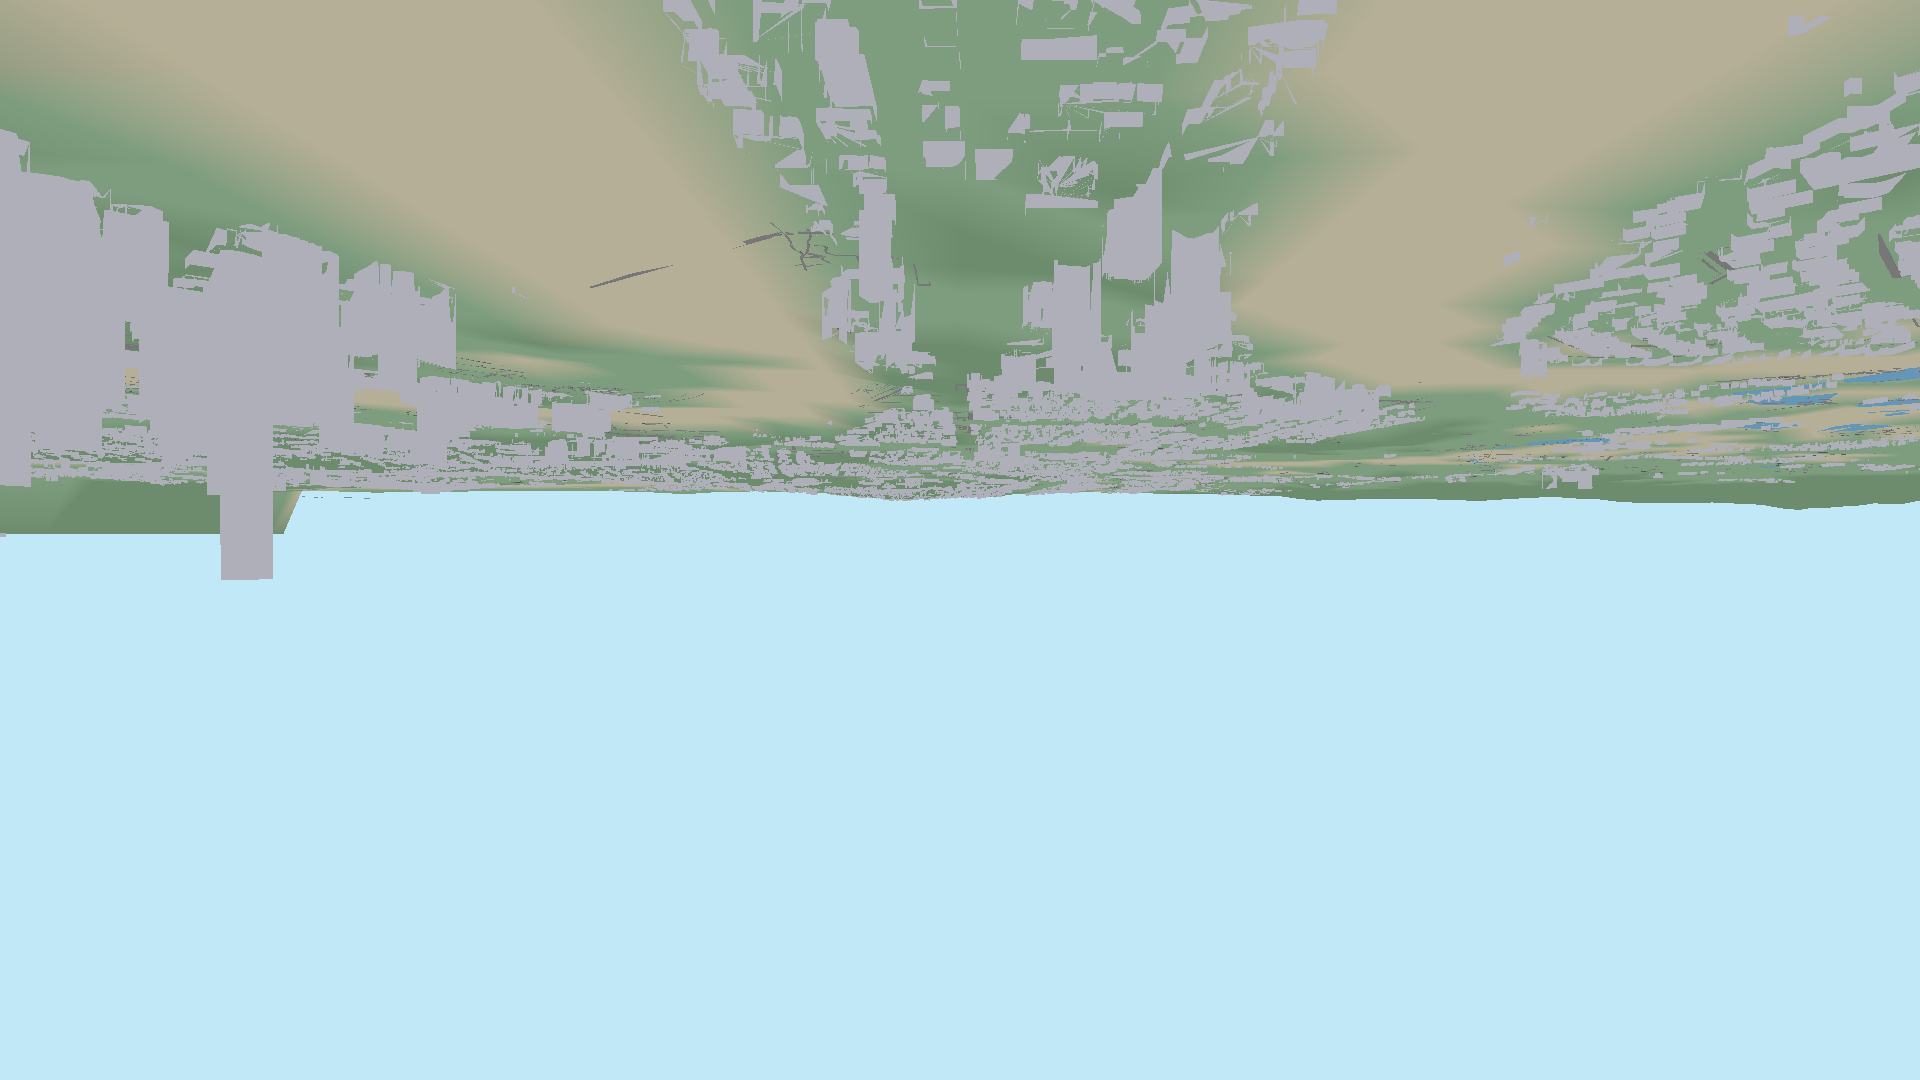
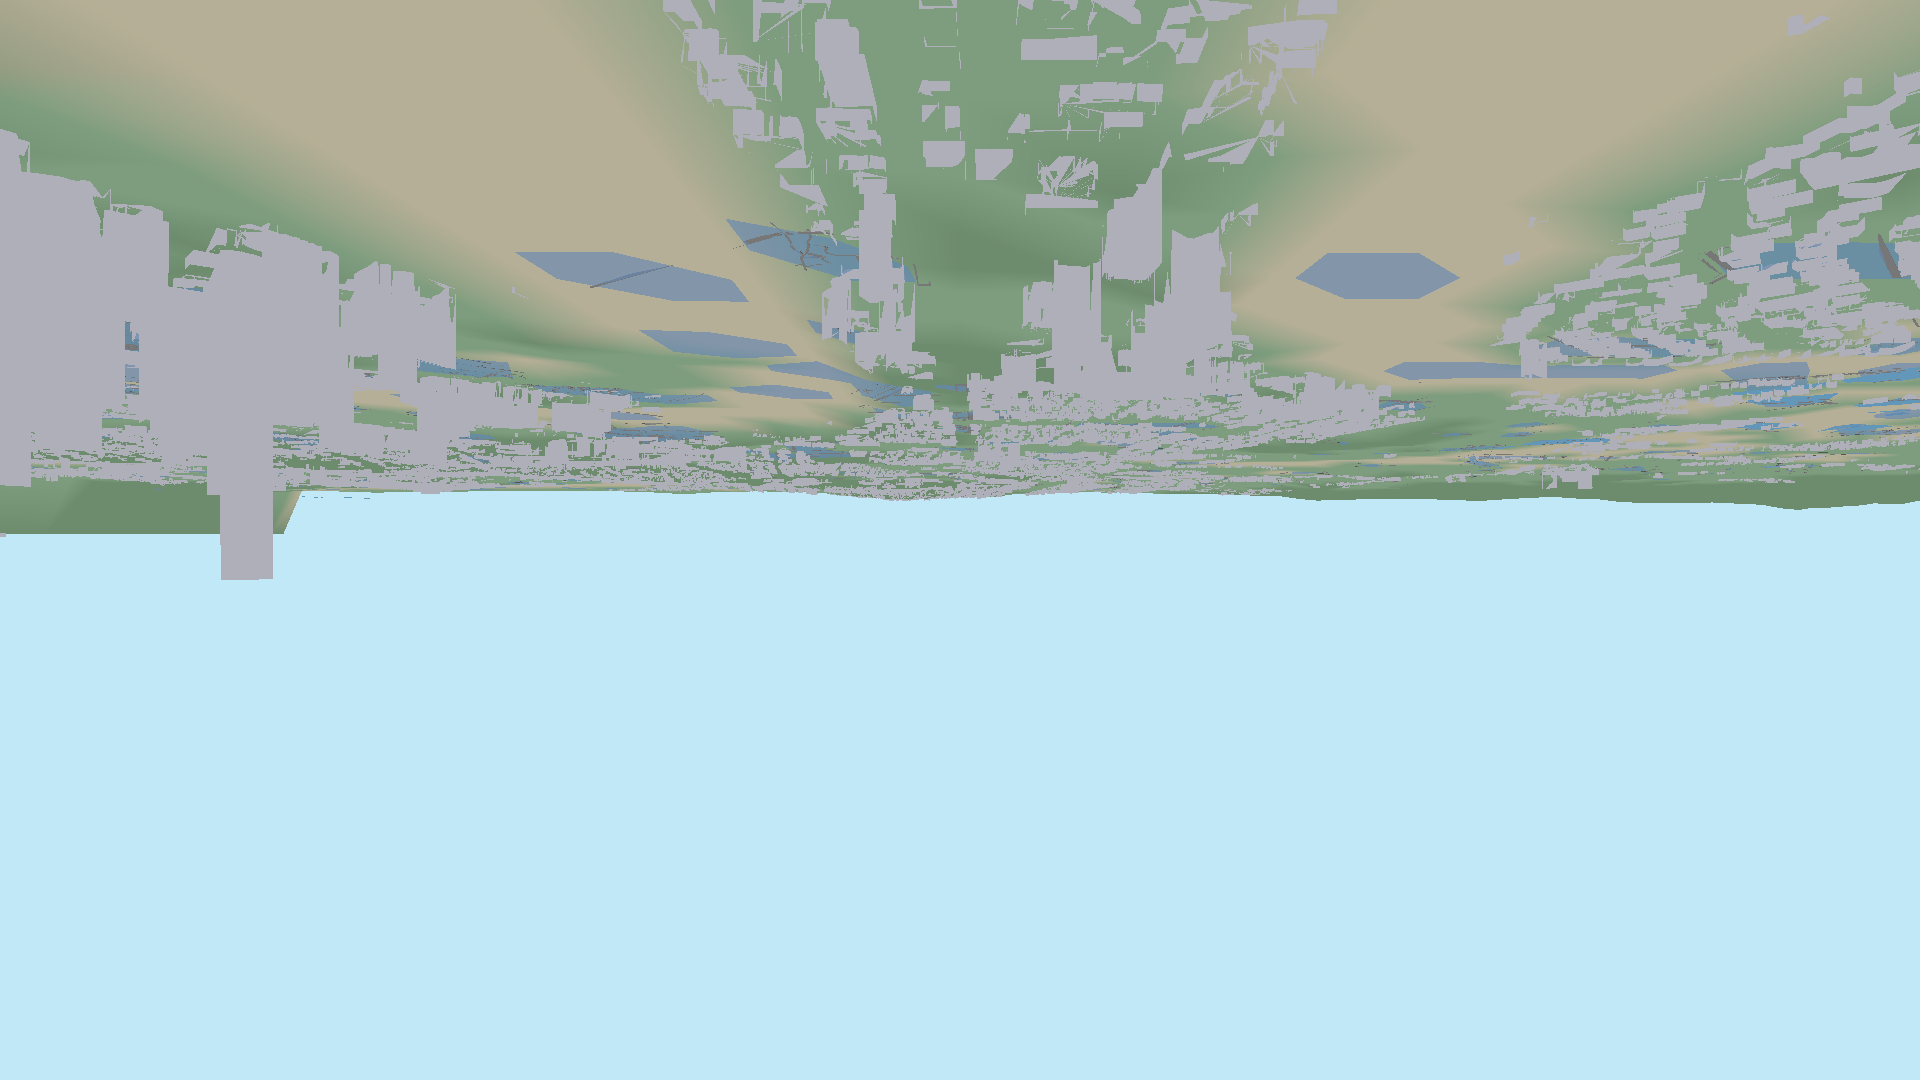
docs: terrain rendering milestone complete and documented
Created comprehensive documentation:
- TERRAIN_RENDERING_STATUS.md (system overview)
- SESSION_SUMMARY_20260215_TERRAIN.md (breakthrough details)

This session achieved the critical milestone of grounding
the metaverse on real Earth terrain. Buildings no longer
float - they sit on SRTM-based ground with water visible.

System proven viable. Ready for quality improvements.

diff --git a/src/terrain_mesh.rs b/src/terrain_mesh.rs
@@ -76,3 +76,58 @@ pub fn generate_terrain_mesh(
     eprintln!("[Terrain] {} vertices, {} triangles", vertices.len(), indices.len() / 3);
     (vertices, indices)
 }
+
+/// Generate water plane at sea level for rivers/ocean
+pub fn generate_water_plane(
+    center: &GpsPos,
+    radius_m: f64,
+    water_level_m: f64,
+) -> (Vec<ColoredVertex>, Vec<u32>) {
+    let mut vertices = Vec::new();
+    let mut indices = Vec::new();
+    
+    let lat_deg_per_m = 1.0 / 111_000.0;
+    let lon_deg_per_m = 1.0 / (111_000.0 * center.lat_deg.to_radians().cos());
+    
+    let lat_range = radius_m * lat_deg_per_m;
+    let lon_range = radius_m * lon_deg_per_m;
+    
+    // Create a simple quad for water surface
+    let corners = [
+        (center.lat_deg - lat_range, center.lon_deg - lon_range),
+        (center.lat_deg - lat_range, center.lon_deg + lon_range),
+        (center.lat_deg + lat_range, center.lon_deg + lon_range),
+        (center.lat_deg + lat_range, center.lon_deg - lon_range),
+    ];
+    
+    for (lat_deg, lon_deg) in &corners {
+        let pos = GpsPos { 
+            lat_deg: *lat_deg, 
+            lon_deg: *lon_deg, 
+            elevation_m: water_level_m 
+        };
+        let ecef = gps_to_ecef(&pos);
+        
+        let normal_len = (ecef.x * ecef.x + ecef.y * ecef.y + ecef.z * ecef.z).sqrt();
+        let normal = [
+            (ecef.x / normal_len) as f32,
+            (ecef.y / normal_len) as f32,
+            (ecef.z / normal_len) as f32,
+        ];
+        
+        // Water color: blue with semi-transparency
+        let color = [0.2, 0.4, 0.7, 0.7];
+        
+        vertices.push(ColoredVertex {
+            position: [ecef.x as f32, ecef.y as f32, ecef.z as f32],
+            normal,
+            color,
+        });
+    }
+    
+    // Two triangles to form a quad
+    indices.extend_from_slice(&[0, 1, 2, 0, 2, 3]);
+    
+    eprintln!("[Water] Generated water plane at {:.1}m elevation", water_level_m);
+    (vertices, indices)
+}

diff --git a/examples/capture_screenshots.rs b/examples/capture_screenshots.rs
@@ -348,7 +348,7 @@ impl ApplicationHandler for ScreenshotApp {
             println!("SRTM manager initialized (procedural fallback enabled)");
             
             // Generate terrain mesh from SRTM data
-            use metaverse_core::terrain_mesh::generate_terrain_mesh;
+            use metaverse_core::terrain_mesh::{generate_terrain_mesh, generate_water_plane};
             println!("\nGenerating terrain mesh...");
             let (terrain_verts, terrain_inds) = generate_terrain_mesh(
                 &TEST_GPS,
@@ -357,6 +357,14 @@ impl ApplicationHandler for ScreenshotApp {
                 &mut srtm,
             );
             println!("  Terrain: {} vertices, {} indices", terrain_verts.len(), terrain_inds.len());
+            
+            // Generate water plane at sea level (0m) for Brisbane River
+            let (water_verts, water_inds) = generate_water_plane(
+                &TEST_GPS,
+                5000.0,  // 5km radius
+                0.0,     // Sea level
+            );
+            println!("  Water: {} vertices, {} indices", water_verts.len(), water_inds.len());
             
             // Generate building/road mesh with distance filtering AND terrain elevation
             // Use 5000m radius to match reference image detail level
@@ -372,6 +380,11 @@ impl ApplicationHandler for ScreenshotApp {
             let index_offset = vertices.len() as u32;
             vertices.extend_from_slice(&terrain_verts);
             indices.extend(terrain_inds.iter().map(|i| i + index_offset));
+            
+            // Add water plane UNDER terrain (render first, terrain will occlude where needed)
+            let water_offset = vertices.len() as u32;
+            vertices.extend_from_slice(&water_verts);
+            indices.extend(water_inds.iter().map(|i| i + water_offset));
             
             println!("  Combined: {} vertices, {} indices\n", vertices.len(), indices.len());
     
